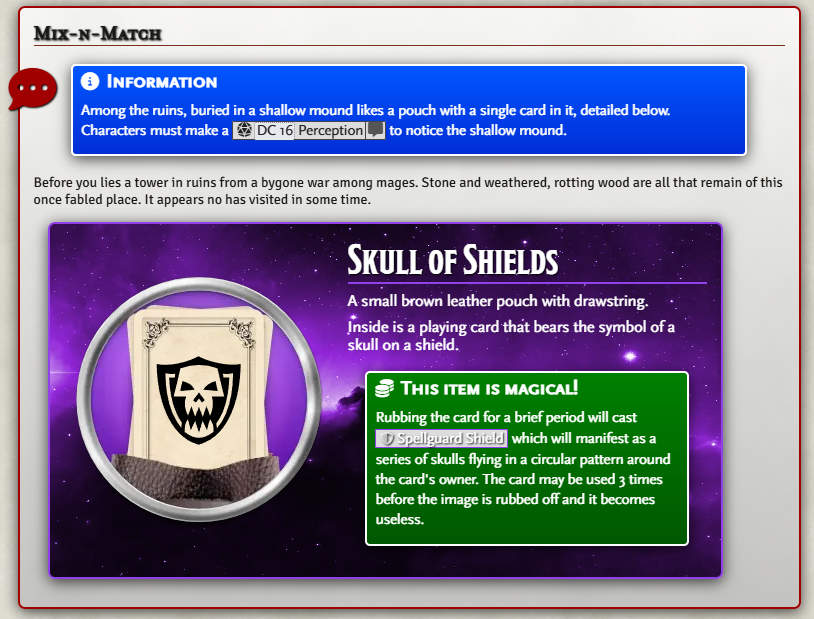
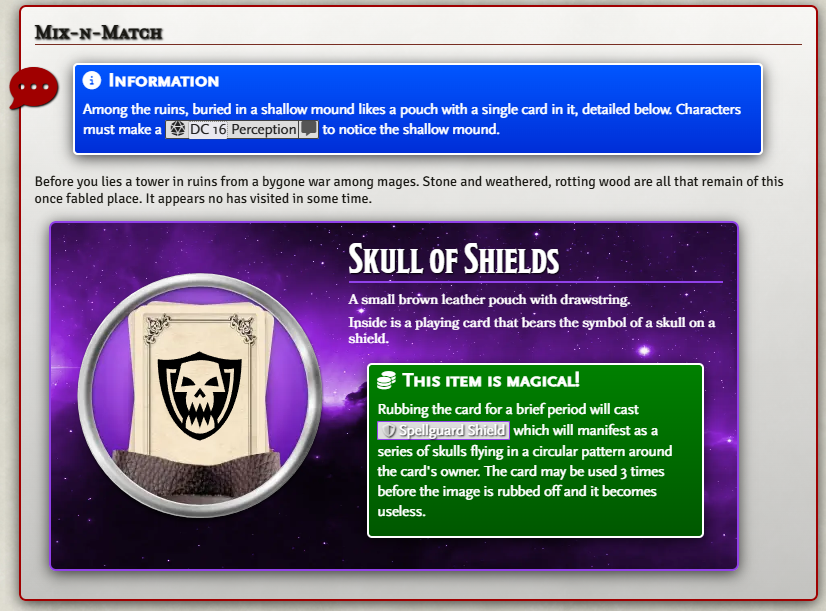
Move apsj-text style back to font-weight 400 as APSJ dnd-text was, not the 700 of MEJ. Regenerate example images with new weight. Add element stylings sample.

Changed region(s): [[0.0, 0.0, 1.0, 0.9951]]

diff --git a/styles/apsj.css b/styles/apsj.css
@@ -45,7 +45,7 @@
     --apsj-cyan-light: rgb(112, 217, 255);
     --apsj-blue-light: rgb(41, 126, 255);
     --apsj-purple-light: rgb(144, 65, 233);
-  	--apsj-black-light: rgb(64, 64, 64);
+    --apsj-black-light: rgb(64, 64, 64);
 
     --apsj-red: rgb(160, 0, 0);
     --apsj-orange: rgb(255, 128, 0);
@@ -54,7 +54,7 @@
     --apsj-cyan: rgb(72, 177, 224);
     --apsj-blue: rgb(1, 86, 255);
     --apsj-purple: rgb(104, 25, 193);
-  	--apsj-black: rgb(32, 32, 32);
+    --apsj-black: rgb(32, 32, 32);
 
     --apsj-red-dark: rgb(120, 0, 0);
     --apsj-orange-dark: rgb(215, 88, 0);
@@ -63,7 +63,7 @@
     --apsj-cyan-dark: rgb(32, 137, 184);
     --apsj-blue-dark: rgb(0, 46, 215);
     --apsj-purple-dark: rgb(64, 0, 153);
-  	--apsj-black-dark: rgb(0, 0, 0);
+    --apsj-black-dark: rgb(0, 0, 0);
 
     --apsj-font-awesome: 'Font Awesome 6 Pro';
     --apsj-font-bookinsanity: 'Bookinsanity', serif;
@@ -173,7 +173,7 @@
 
 .apsj-text {
     font-family: var(--apsj-font-bookinsanity);
-    font-weight: 700;
+    font-weight: 400;
     font-size: 1em;
 }
 

diff --git a/README.md b/README.md
@@ -36,6 +36,10 @@ _The available Blocks:_
 
 ![blocks](media/apsj-stylish-blocks.webp)
 
+_The available Elements stylings:_
+
+![blocks](media/apsj-stylish-elements.webp)
+
 _The available Elements Stylings in Prosemirror:_
 
 ![elements](media/apsj-stylish-text-menu-prosemirror.webp)

diff --git a/CHANGELOG.md b/CHANGELOG.md
@@ -2,6 +2,7 @@
 
 Improve README with examples.
 Use Foundry's built-in Font Awesome Pro instead of requiring Font Awesome Free it to be user-installed.
+Move apsj-text style back to font-weight 400 as APSJ dnd-text was, not the 700 of MEJ.
 
 # Version 0.2.5
 
